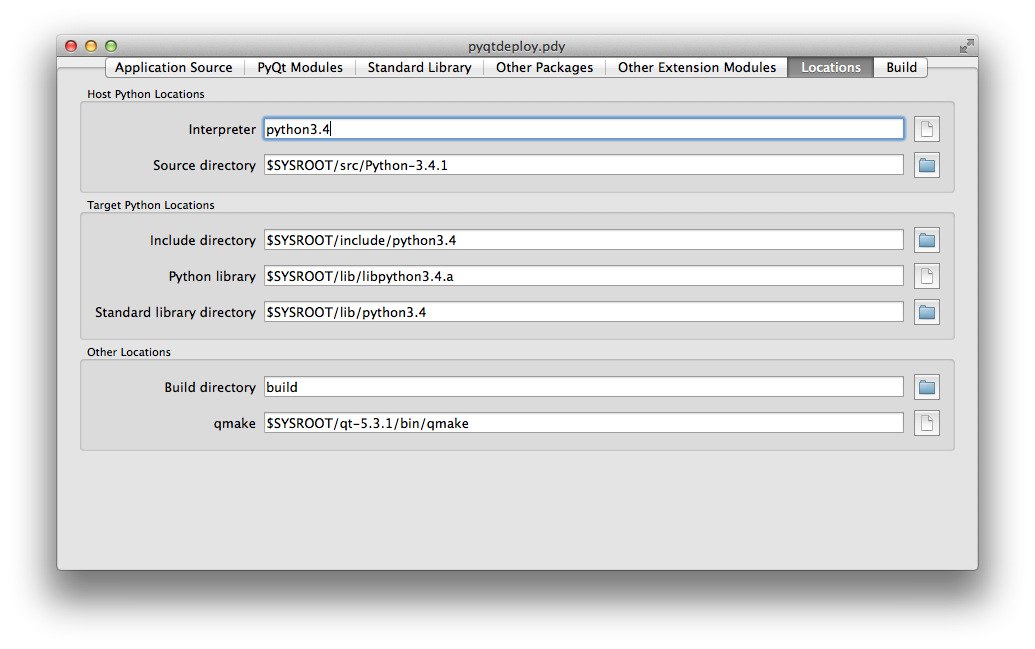
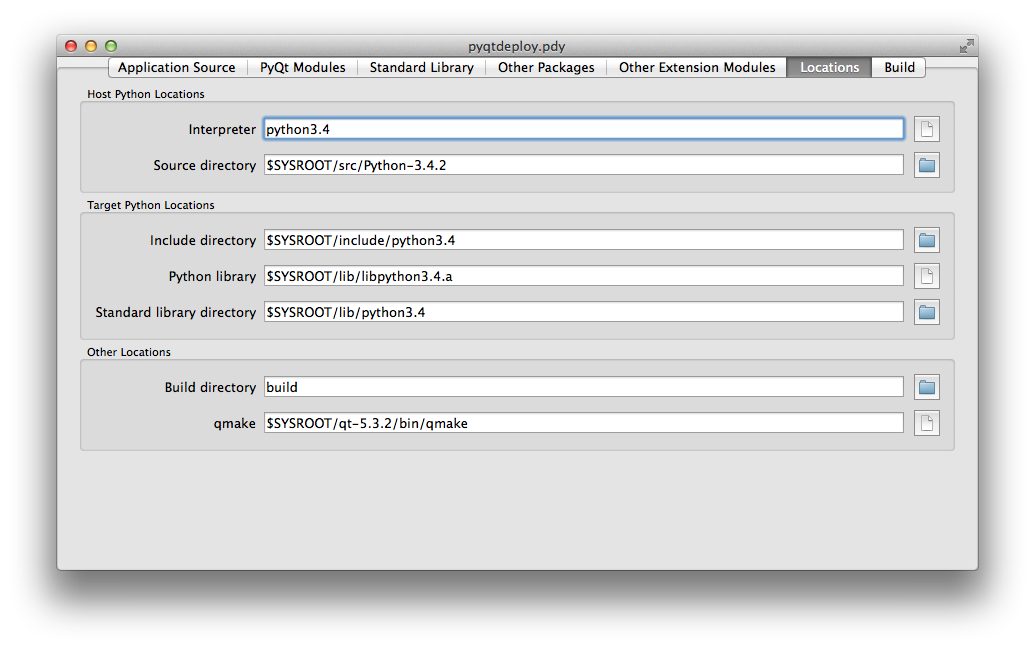
More fixes required for the move to supporting individual Python patch levels. Updated the example projects and docs for the latest versions of Python and Qt.

diff --git a/pyqtdeploy/metadata/supported_python_versions.py b/pyqtdeploy/metadata/supported_python_versions.py
@@ -1,0 +1,61 @@
+# Copyright (c) 2014, Riverbank Computing Limited
+# All rights reserved.
+#
+# Redistribution and use in source and binary forms, with or without
+# modification, are permitted provided that the following conditions are met:
+# 
+# 1. Redistributions of source code must retain the above copyright notice,
+#    this list of conditions and the following disclaimer.
+# 
+# 2. Redistributions in binary form must reproduce the above copyright notice,
+#    this list of conditions and the following disclaimer in the documentation
+#    and/or other materials provided with the distribution.
+# 
+# THIS SOFTWARE IS PROVIDED BY THE COPYRIGHT HOLDERS AND CONTRIBUTORS "AS IS"
+# AND ANY EXPRESS OR IMPLIED WARRANTIES, INCLUDING, BUT NOT LIMITED TO, THE
+# IMPLIED WARRANTIES OF MERCHANTABILITY AND FITNESS FOR A PARTICULAR PURPOSE
+# ARE DISCLAIMED. IN NO EVENT SHALL THE COPYRIGHT HOLDER OR CONTRIBUTORS BE
+# LIABLE FOR ANY DIRECT, INDIRECT, INCIDENTAL, SPECIAL, EXEMPLARY, OR
+# CONSEQUENTIAL DAMAGES (INCLUDING, BUT NOT LIMITED TO, PROCUREMENT OF
+# SUBSTITUTE GOODS OR SERVICES; LOSS OF USE, DATA, OR PROFITS; OR BUSINESS
+# INTERRUPTION) HOWEVER CAUSED AND ON ANY THEORY OF LIABILITY, WHETHER IN
+# CONTRACT, STRICT LIABILITY, OR TORT (INCLUDING NEGLIGENCE OR OTHERWISE)
+# ARISING IN ANY WAY OUT OF THE USE OF THIS SOFTWARE, EVEN IF ADVISED OF THE
+# POSSIBILITY OF SUCH DAMAGE.
+
+
+# The supported versions.
+_supported_versions = (
+    ((2, 7, 0), "2.7"),
+    ((3, 3, 0), "3.3"),
+    ((3, 4, 0), "3.4.0 and 3.4.1"),
+    ((3, 4, 2), "3.4.2 and later"))
+
+
+def get_supported_python_versions():
+    """ Return the sequence of strings describing each supported version. """
+
+    return [text for _, text in _supported_versions]
+
+
+def get_supported_python_version_index(version):
+    """ Return the index of a particular version. """
+
+    for idx, (v, _) in enumerate(_supported_versions):
+        if v == version:
+            return idx
+
+    # This should never happen.
+    raise ValueError('invalid version {0}'.format(version))
+
+
+def get_supported_python_version(idx):
+    """ Return the version corresponding to a particular index. """
+
+    return _supported_versions[idx][0]
+
+
+def get_latest_supported_python_version():
+    """ Return the latest version. """
+
+    return _supported_versions[-1][0]

diff --git a/pyqtdeploy/builder/builder.py b/pyqtdeploy/builder/builder.py
@@ -131,8 +131,8 @@ class Builder():
                 opt)
 
         # Freeze the bootstrap.
-        py_major, py_minor = project.python_target_version
-        py_version = (py_major << 16) + (py_minor << 8)
+        py_major, py_minor, py_patch = project.python_target_version
+        py_version = (py_major << 16) + (py_minor << 8) + py_patch
 
         bootstrap_src = get_embedded_file_for_version(py_version, __file__,
                 'lib', 'bootstrap')
